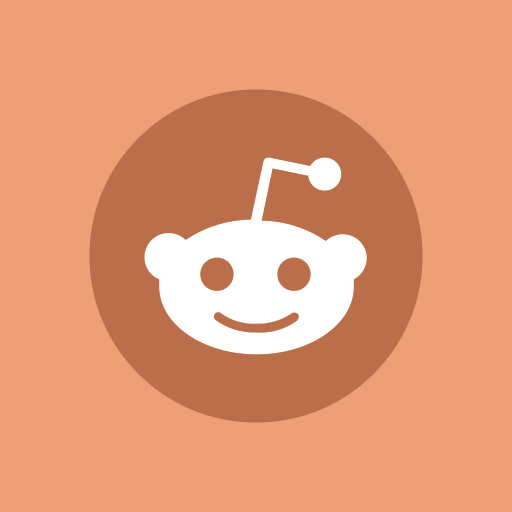
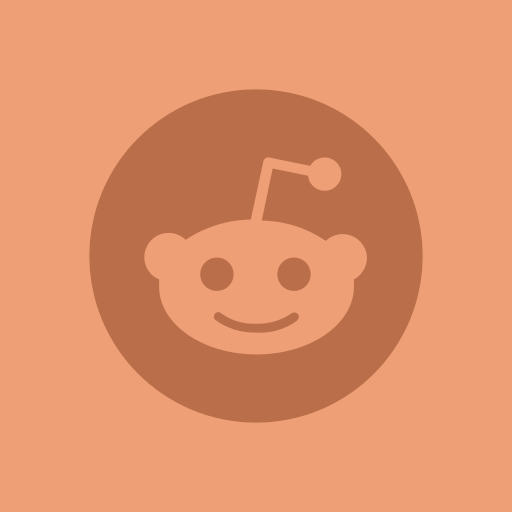
[assets > reddit] Inner -> primary color

Changed region(s): [[0.2812, 0.2812, 0.7188, 0.7188]]

diff --git a/CHANGELOG.md b/CHANGELOG.md
@@ -4,6 +4,10 @@ All notable changes to this project will be documented in this file.
 The format is based on [Keep a Changelog](https://keepachangelog.com/en/1.0.0/),
 and this project adheres to [Semantic Versioning](https://semver.org/spec/v2.0.0.html).
 
+## [Unreleased]
+### Changed
+- Reddit thumbnail inner is now the primary color instead of white
+
 ## [1.4.1-alpha] - 2021-11-14
 ### Fixed
 - Wrong date in CHANGELOG for `v1.4.0-alpha`
